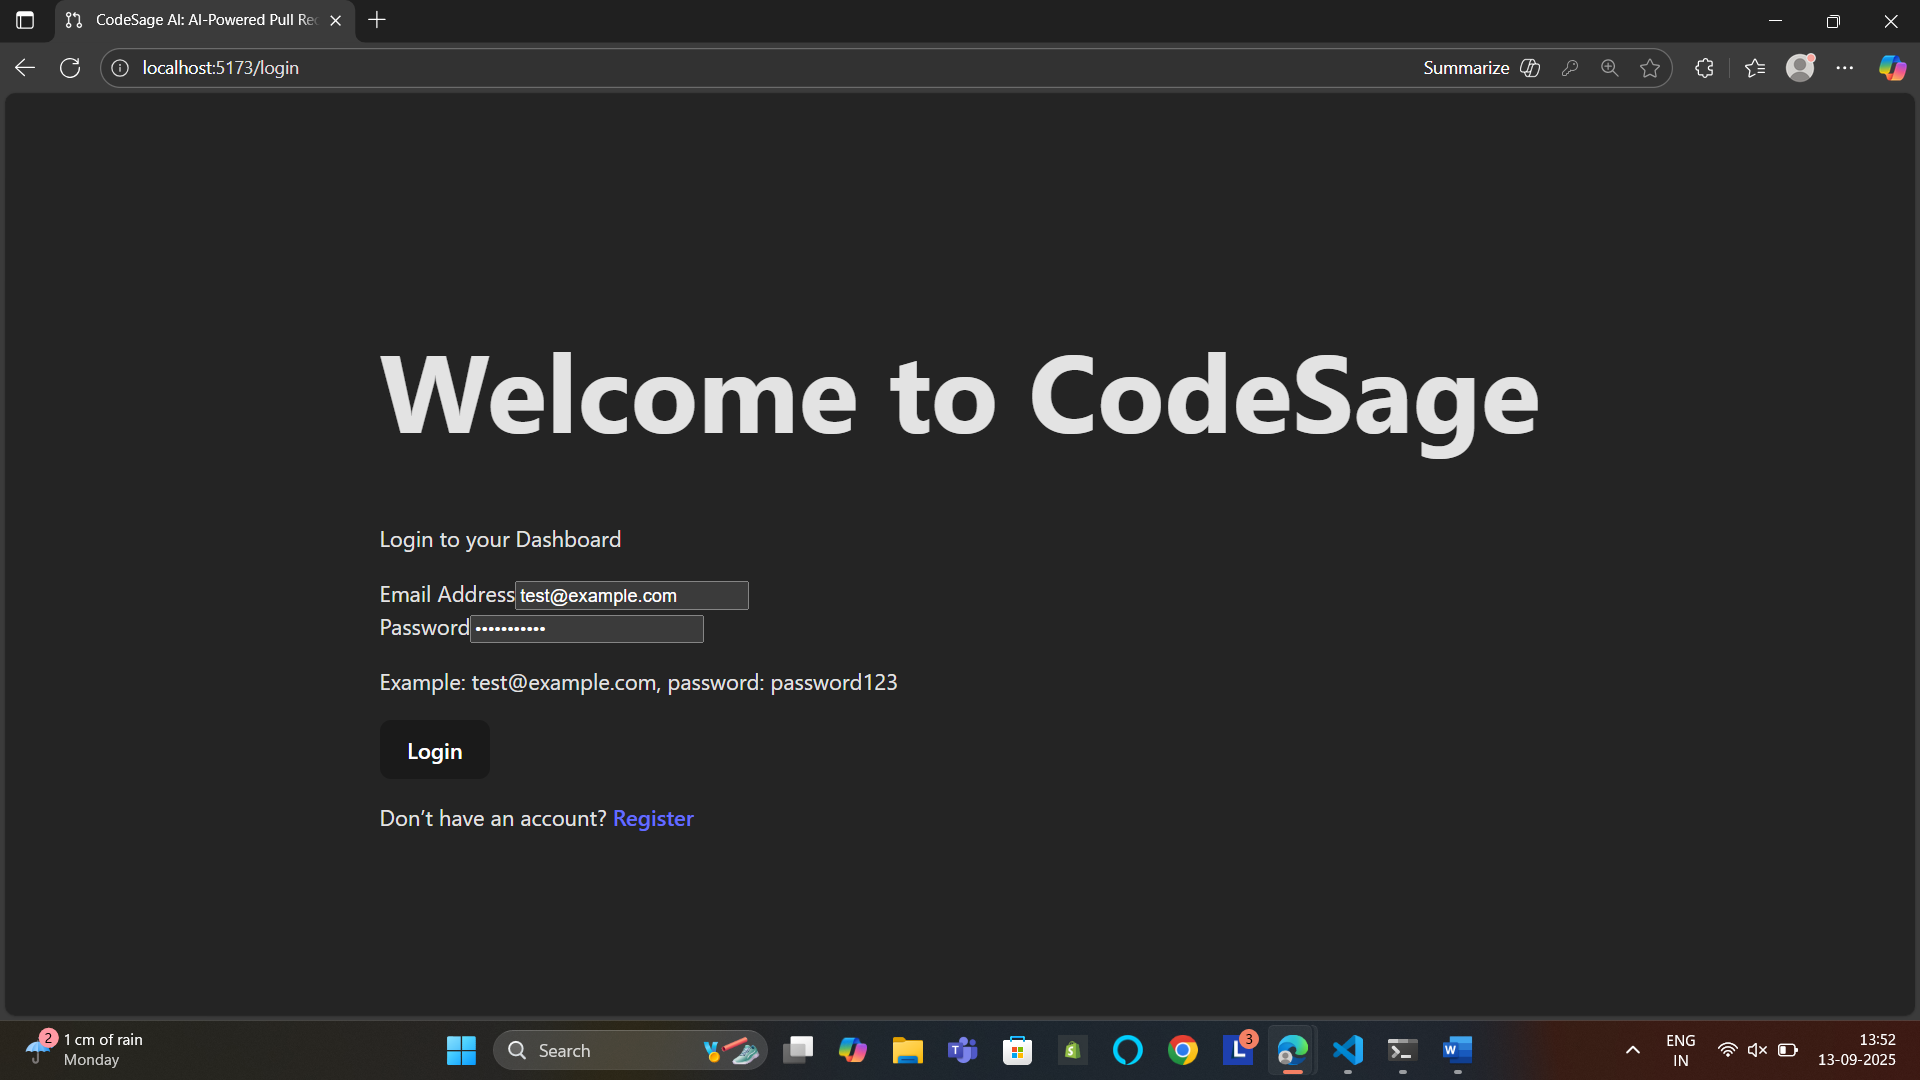
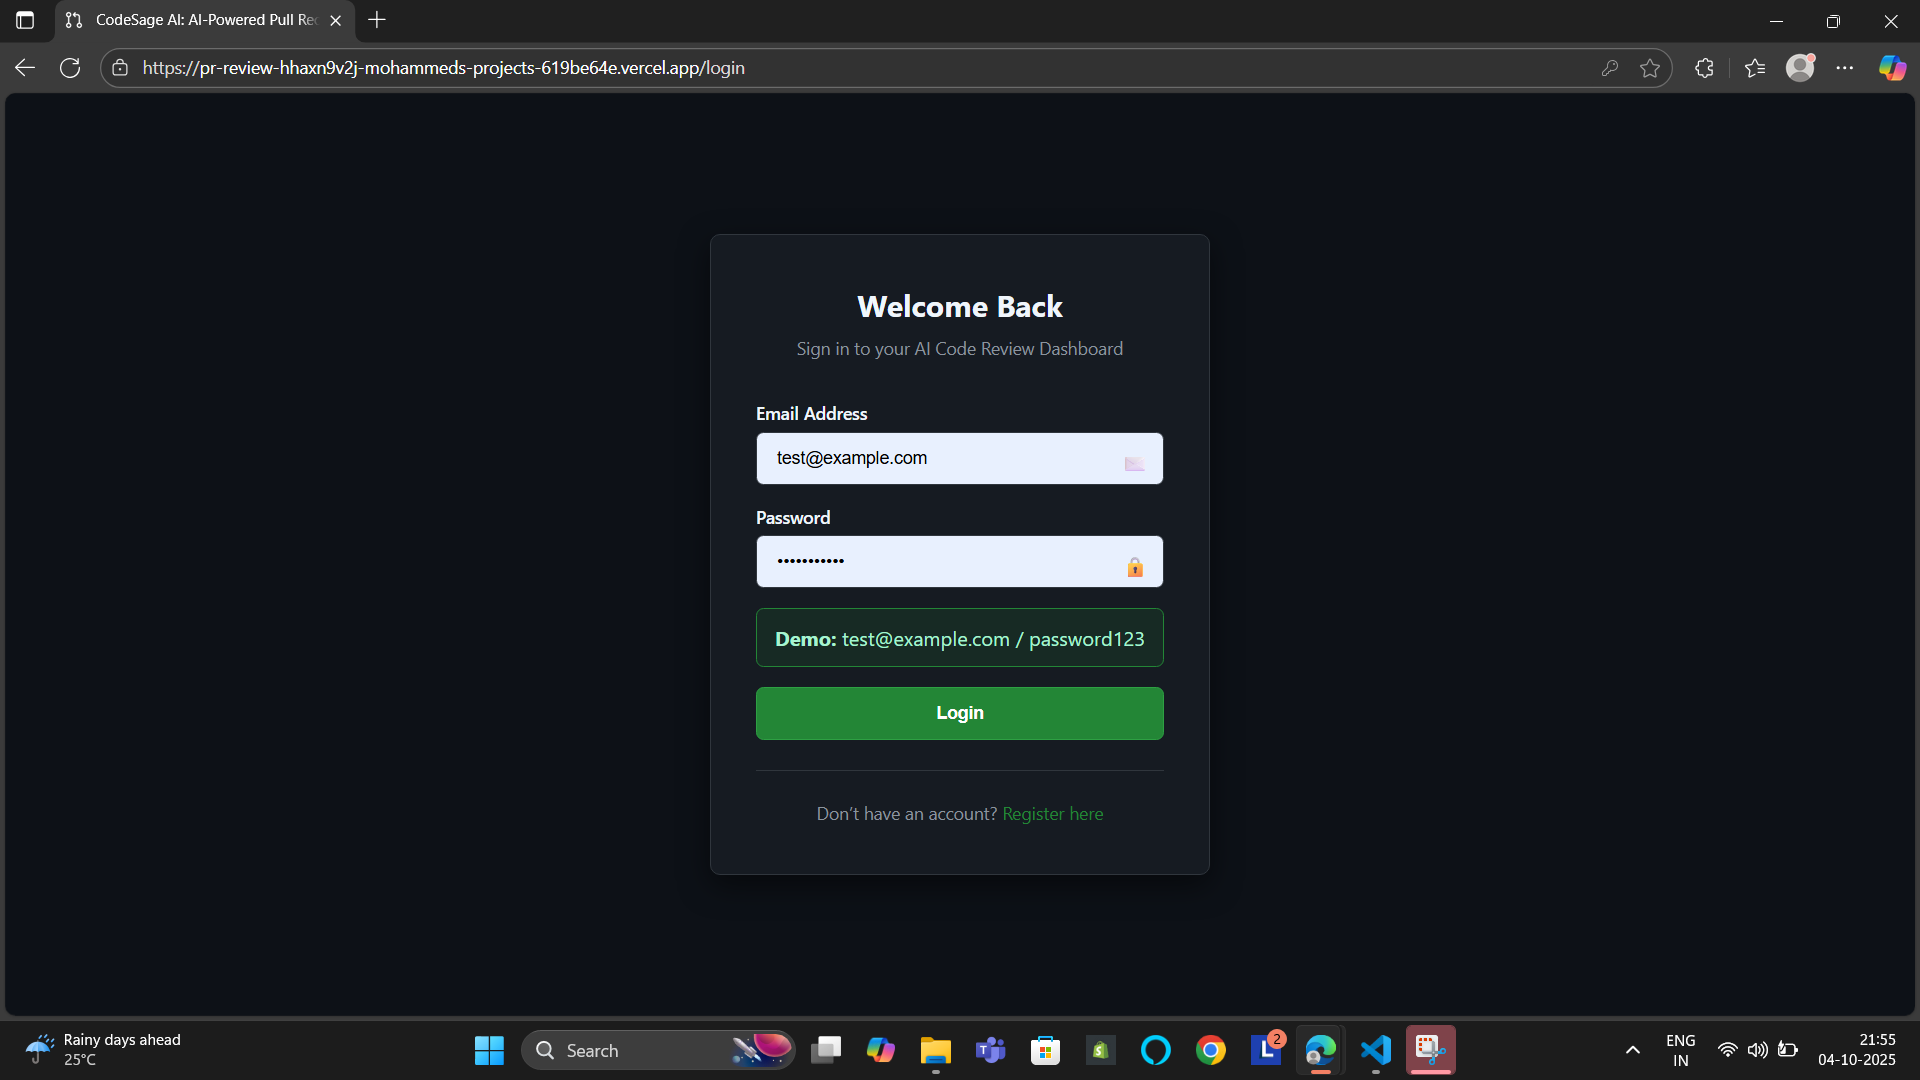
Updated project images and README file

diff --git a/README.md b/README.md
@@ -99,19 +99,23 @@ Currently deployed on Render (Backend + AI) and Vercel (Frontend).
 Placeholders:  
 - Backend URL → (https://pr-review-backend.onrender.com/)  
 - AI Service URL → (https://pr-review-ai-nmkg.onrender.com/)  
-- Frontend URL → (https://pr-review-jykpp6mfd-mohammeds-projects-619be64e.vercel.app/login)
+- Frontend URL → (https://pr-review-ten.vercel.app/login)
 
 ---
 
 ## 📸 Sample Screenshots 
 
 ![Login page ](images/login.png) 
-- Screenshot: Login 
+- Screenshot: Login
+
+![Login page ](images/register.png) 
+- Screenshot: Register 
 
 ![Dashboard ](images/prlist.png) 
 - Screenshot: Dashboard listing PR reviews with score breakdown
 
 ![PR-review ](images/reviewpr.png) 
+![PR-review ](images/reviewpr2.png) 
 - Screenshot: GitHub PR with AI-generated review
 
 ![PR-reiw comment ](images/reviewprcomment.png) 
